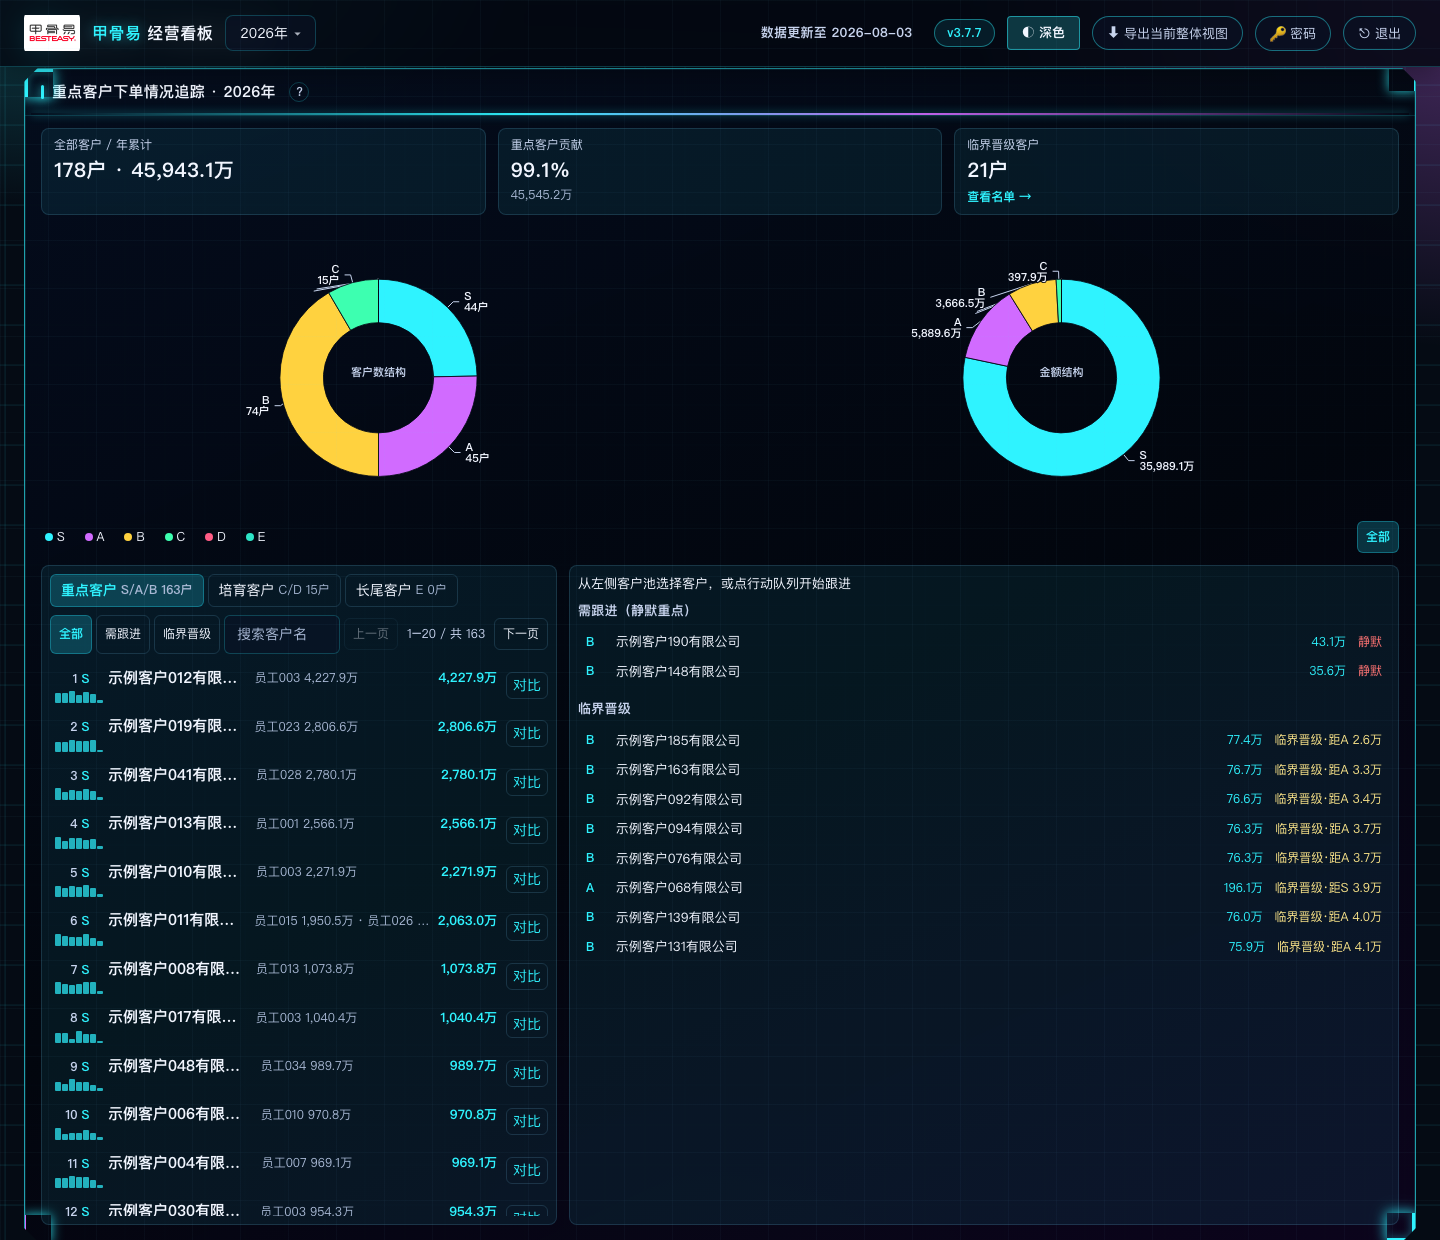
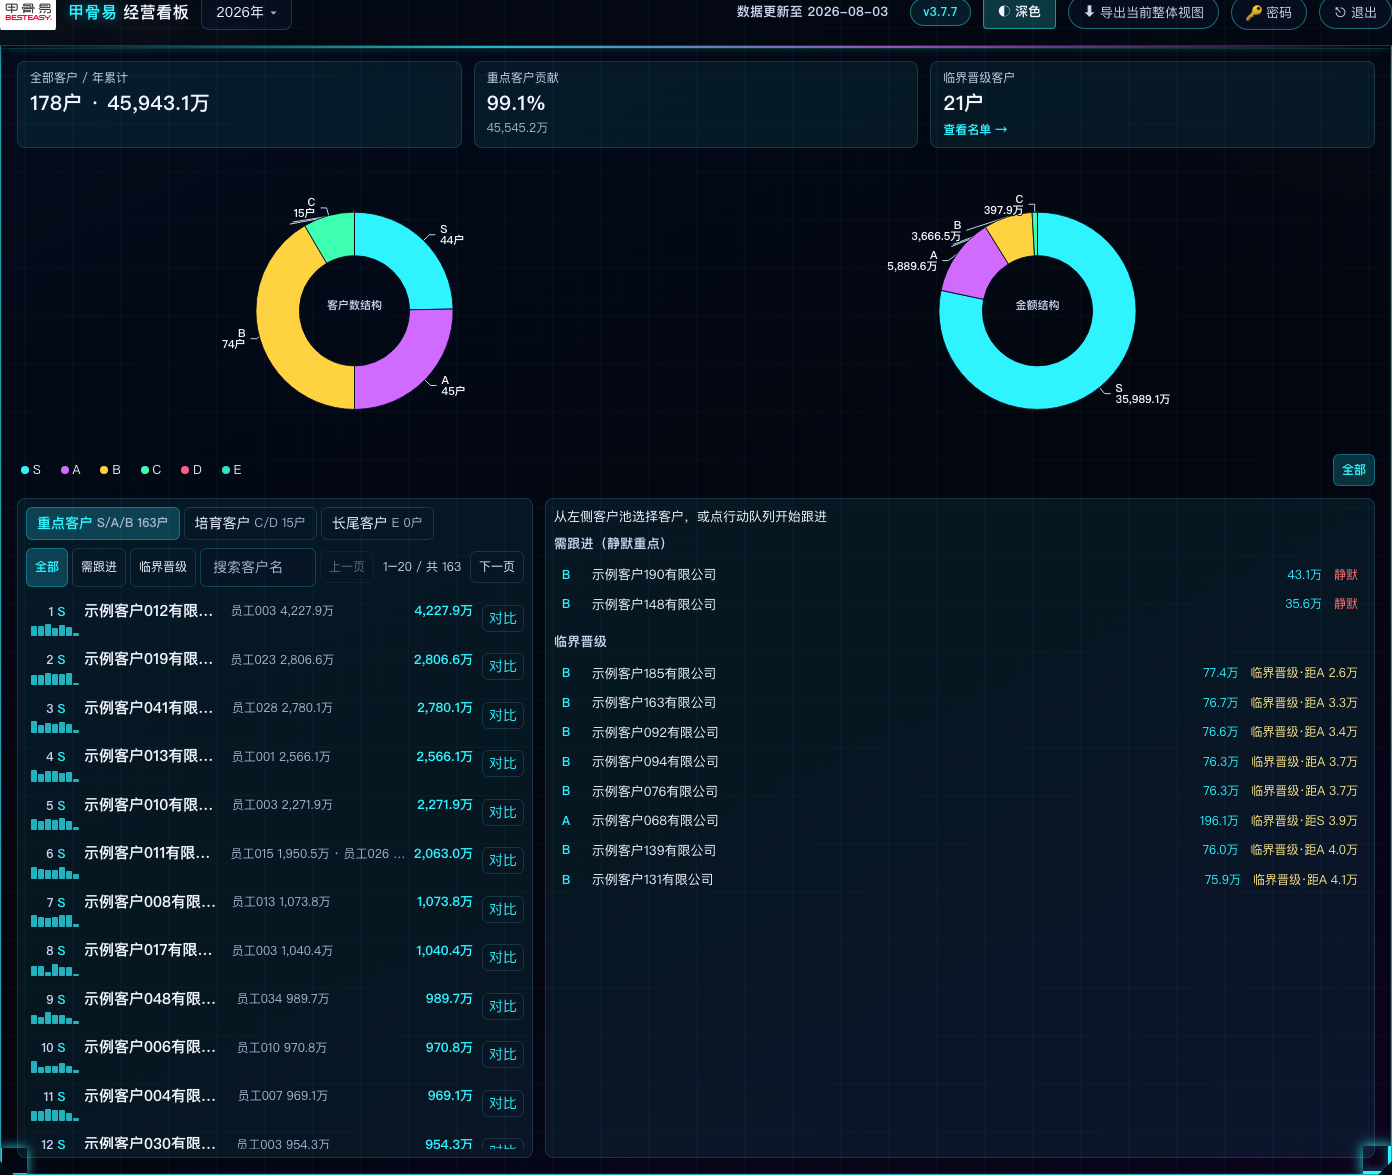
docs(3.7.7): README key-customers multi-line compare screenshot
Capture 3-customer amount-mode line chart for README; keep
default combat desk (pies + pool + action queue) as second image.

Changed region(s): [[0.0, 0.3677, 1.0, 1.0], [0.0, 0.0, 1.0, 0.3983], [0.1545, 0.1532, 0.3398, 0.3983]]

diff --git a/README.md b/README.md
@@ -72,9 +72,13 @@
 | 五 | **收入与毛利结构** | 按客户 / 销售排名 |
 | 六 | **费用明细** | 热力 + 台账表 |
 
-![重点客户完整作战台](docs/images/ui/05_key_customers.png)
+![重点客户 · 多客金额对比折线](docs/images/ui/05_key_customers_compare.png)
 
-上图含：三摘要卡、客户数/金额双饼、S～E 图例、三经营池名单（对比）、右侧需跟进/临界晋级行动队列（golden 合成客户名）。
+上图为点名单「对比」后的作战台（golden 合成客户）：左池 S/A/B 名单；右为 **对比 N 客** 标签 + **金额对比** 折线（1～12 月下单预估，多色叠线）。未点对比时右侧为需跟进/临界晋级行动队列。
+
+![重点客户 · 默认作战台](docs/images/ui/05_key_customers.png)
+
+默认态：双饼 + 名单 + 行动队列（同上脱敏数据）。
 
 ![看端利润区](docs/images/ui/03_viewer_profit_section.png)
 
